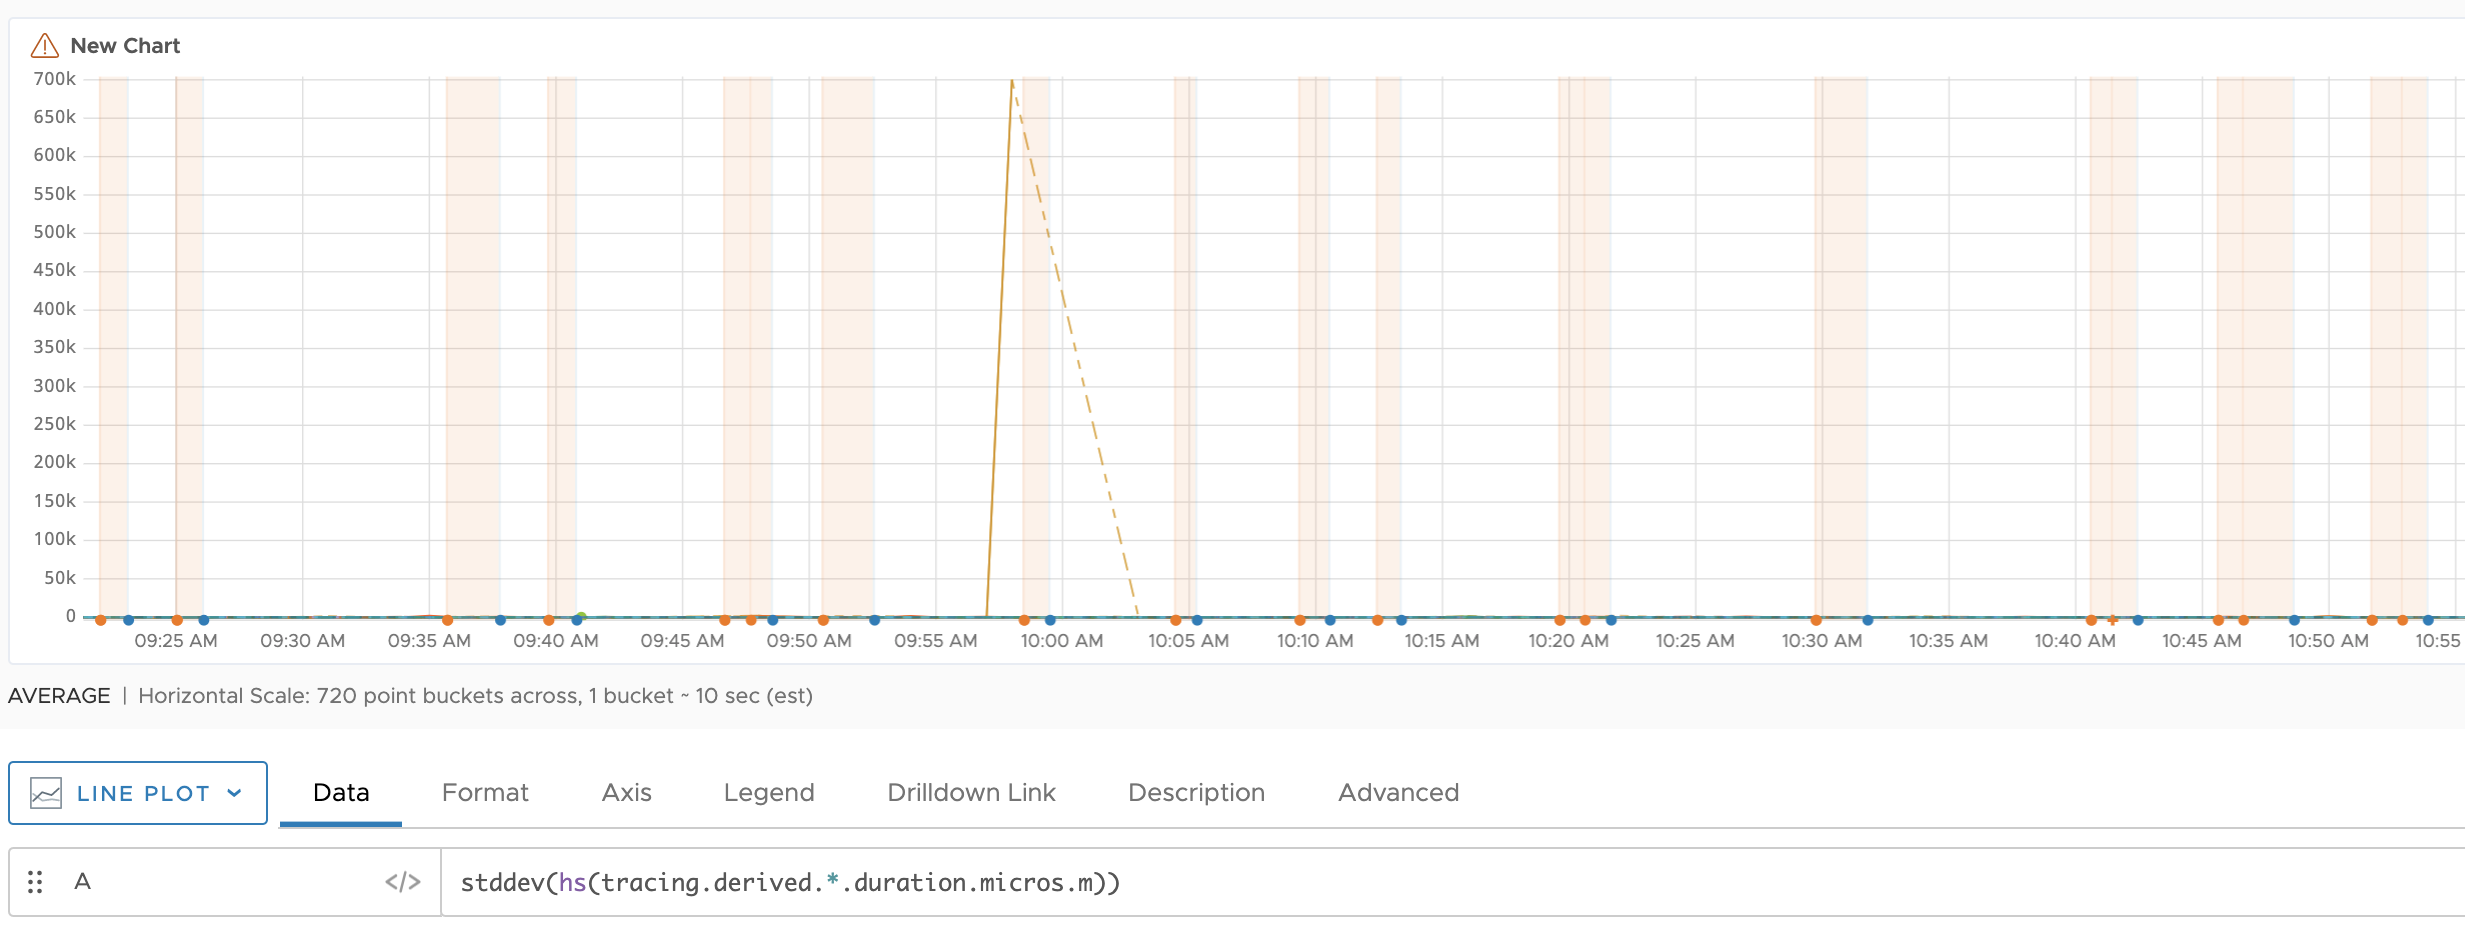
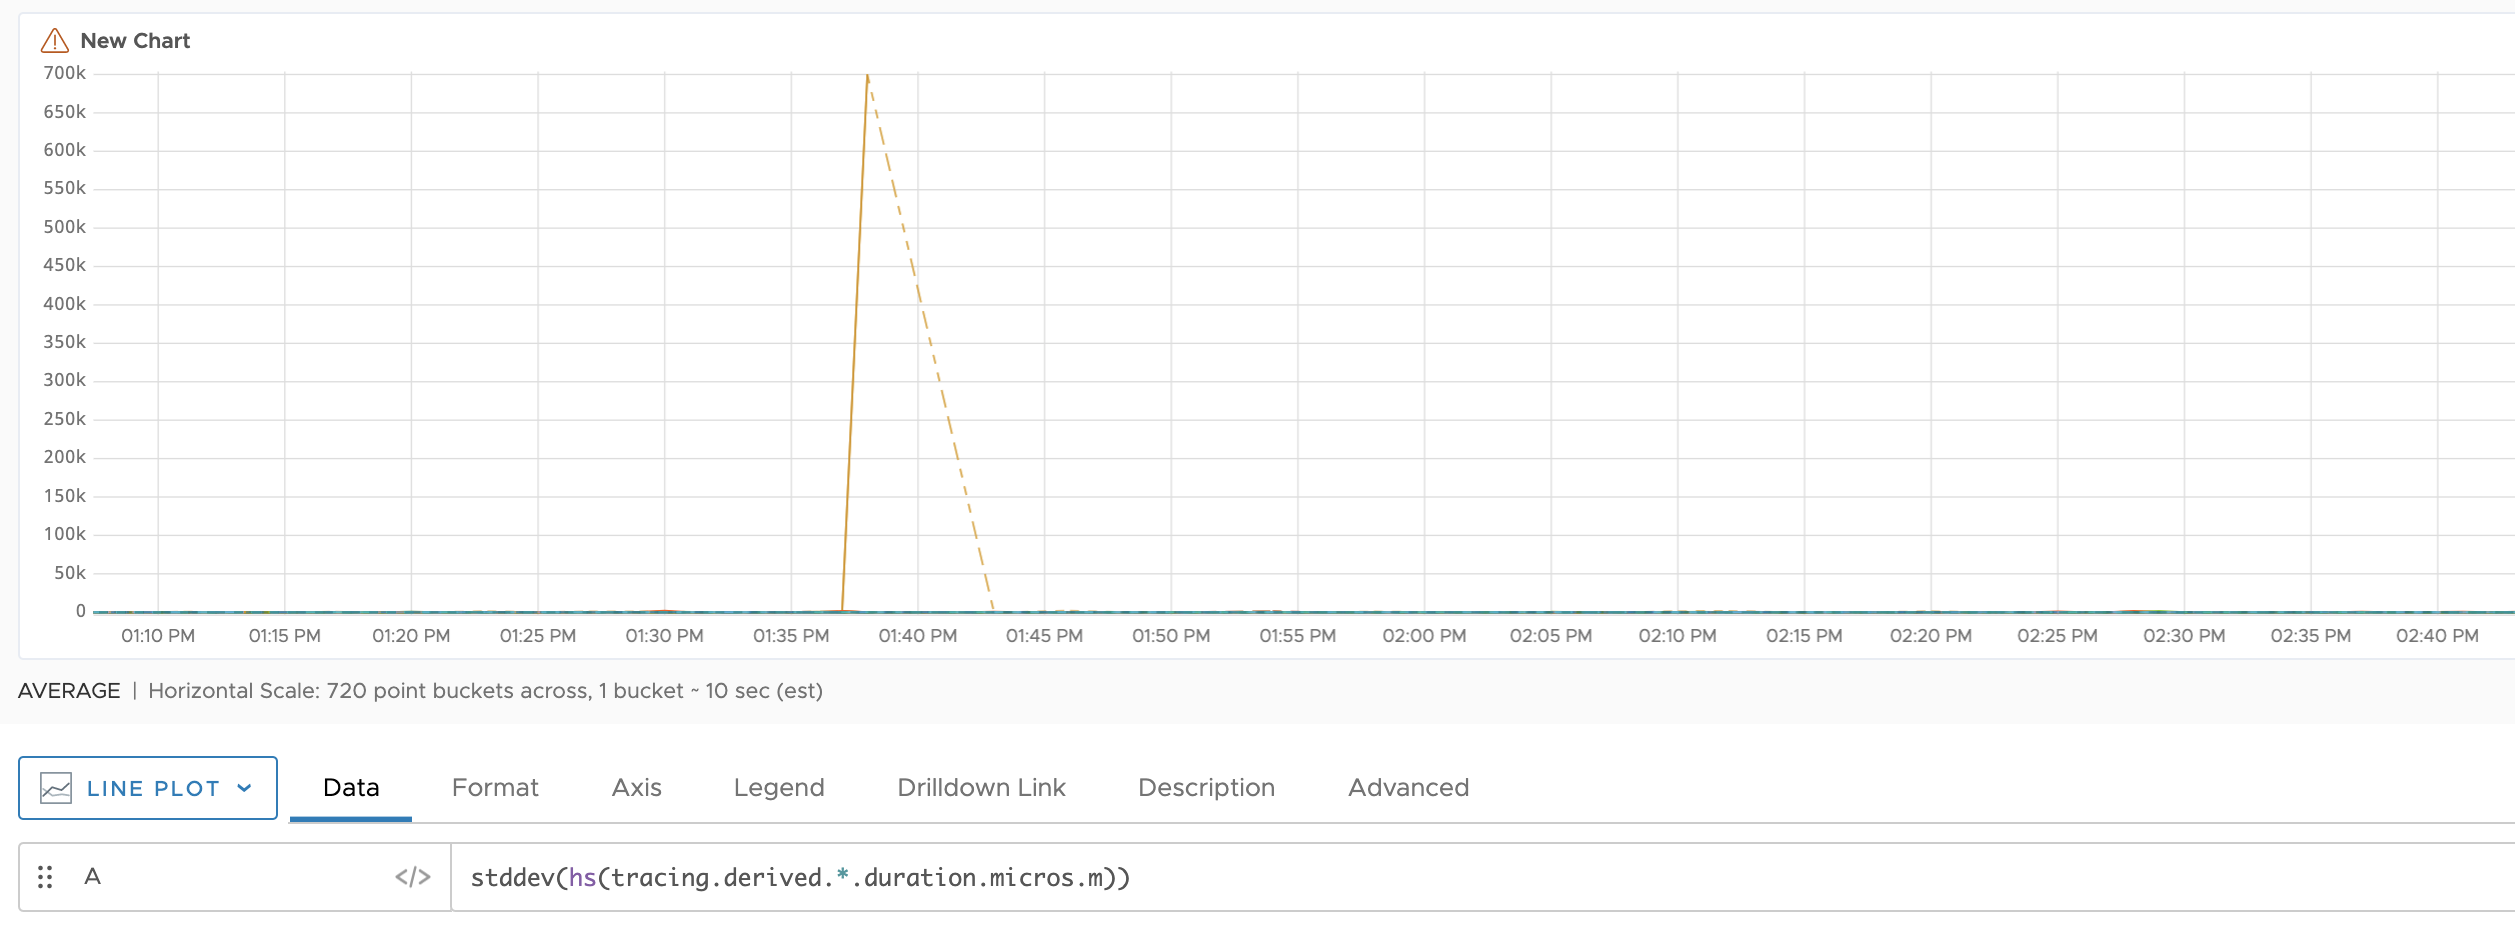
Update content

diff --git a/pages/doc/hs_stddev.md b/pages/doc/hs_stddev.md
@@ -23,18 +23,18 @@ Standard deviation tells you how the data in the histogram expression is distrib
 <tbody>
 <tr>
 <td markdown="span">[hsExpression](query_language_reference.html#query-expressions)</td>
-<td markdown="span">Expression describing the histogram series to be merged.</td></tr>
+<td markdown="span">Expression describing the histogram series.</td></tr>
 </tbody>
 </table>
 
 
 ## Description
 
-The `stddev()` functions shows you how the data in a histogram expression varies against the mean or average and returns those values as time series. A separate time series is returned for each histogram series. You can use this function to understand the volatility of your data or find anomalies in your histogram expression.
+The `stddev()` function shows you how the data in a histogram expression varies against the mean or average and returns those values as time series. A separate time series is returned for each histogram series. You can use this function to understand the volatility of your data or find anomalies in your histogram expression.
 
 ## Example
 
-This chart represents all of the histogram series described by the expression `hs(tracing.derived.*.duration.micros.m))`. Each histogram series consists of distributions from a particular source, and a given source might emit more than one histogram series. The chart represents each histogram series as a separate line that consists of the median values of the distributions.
+This chart represents all of the histogram series described by `hs(tracing.derived.*.duration.micros.m))`. Each histogram series consists of distributions from a particular source, and a given source might emit more than one histogram series. The chart represents each histogram series as a separate line that consists of the median values of the distributions.
 
 ![hs_stddedv_before](images/hs_stddedv_before.png)
 
@@ -44,7 +44,7 @@ Use the following query to find the standard deviation:
 stddev(hs(tracing.derived.*.duration.micros.m)))
 ```
 
-Now, you see how the data in your expression varies against the mean. You see an anomaly (a spike) between 9.55 AM and 10 AM.
+Now, you see how the data in your expression varies against the mean. You see an anomaly (a spike) between 1.35 PM and 1.45 AM.
 
 ![hs_stddev](images/hs_stddev.png)
 
